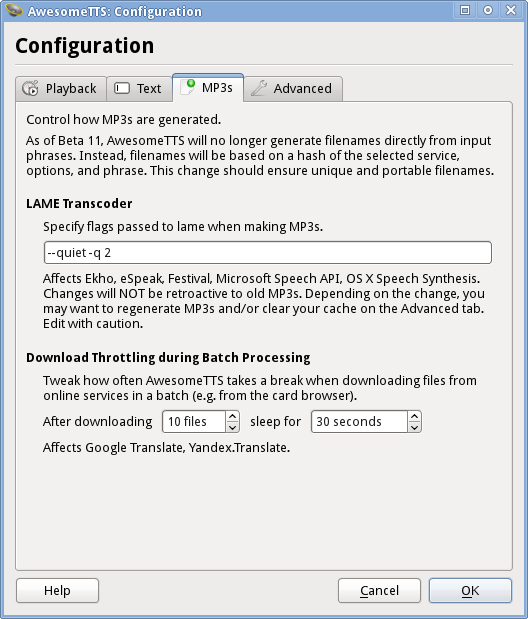
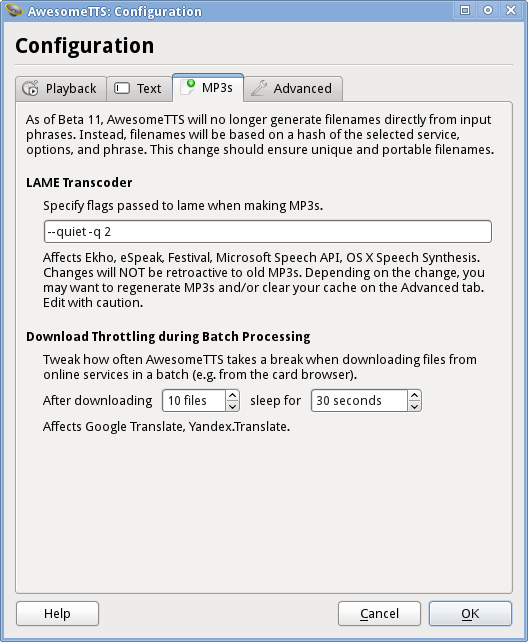
Missing text manipulation options
Really finishes off #38 by adding more options for how to handle these
arbitrary characters, including ellipsizing them and counting them (as
the user reports they are doing in their version).

Changed region(s): [[0.0, 0.0, 0.9697, 0.7367], [0.0303, 0.9208, 0.9697, 0.9822]]

diff --git a/addon/awesometts/gui/configurator.py b/addon/awesometts/gui/configurator.py
@@ -44,12 +44,14 @@ class Configurator(Dialog):
         'debug_stdout', 'delay_answers_onthefly', 'delay_answers_stored_ours',
         'delay_answers_stored_theirs', 'delay_questions_onthefly',
         'delay_questions_stored_ours', 'delay_questions_stored_theirs',
-        'lame_flags', 'strip_note_braces', 'strip_note_brackets',
-        'strip_note_parens', 'strip_note_specific', 'strip_template_braces',
-        'strip_template_brackets', 'strip_template_parens',
-        'strip_template_specific', 'sub_note_cloze', 'sub_template_cloze',
-        'throttle_sleep', 'throttle_threshold', 'tts_key_a', 'tts_key_q',
-        'updates_enabled',
+        'lame_flags', 'spec_note_strip', 'spec_note_ellipsize',
+        'spec_template_ellipsize', 'spec_note_count', 'spec_note_count_wrap',
+        'spec_template_count', 'spec_template_count_wrap',
+        'spec_template_strip', 'strip_note_braces', 'strip_note_brackets',
+        'strip_note_parens', 'strip_template_braces',
+        'strip_template_brackets', 'strip_template_parens', 'sub_note_cloze',
+        'sub_template_cloze', 'throttle_sleep', 'throttle_threshold',
+        'tts_key_a', 'tts_key_q', 'updates_enabled',
     ]
 
     _PROPERTY_WIDGETS = (
@@ -131,8 +133,6 @@ class Configurator(Dialog):
         Returns the "Playback" tab.
         """
 
-        intro = QtGui.QLabel("Control how playback is handled.")
-
         notes = QtGui.QLabel("For [sound] tags, whether or not automatic "
           "playback is enabled is controlled on a per-deck basis, and can be "
           "played on-demand by striking R or F5.")
@@ -140,8 +140,6 @@ class Configurator(Dialog):
         notes.setWordWrap(True)
 
         layout = QtGui.QVBoxLayout()
-        layout.addWidget(intro)
-        layout.addSpacing(self._SPACING)
         layout.addWidget(self._ui_tabs_playback_group(
             'automatic_questions',
             'tts_key_q',
@@ -232,17 +230,7 @@ class Configurator(Dialog):
         Returns the "Text" tab.
         """
 
-        intro = QtGui.QLabel("Configure how AwesomeTTS processes text.")
-
-        notes = QtGui.QLabel(
-            "AwesomeTTS will always automatically strip [sound] tags and "
-            "HTML from both template text and note fields."
-        )
-        notes.setWordWrap(True)
-
         layout = QtGui.QVBoxLayout()
-        layout.addWidget(intro)
-        layout.addSpacing(self._SPACING)
         layout.addWidget(self._ui_tabs_text_mode(
             '_template_',
             "Handling Template Text (e.g. On-the-Fly)",
@@ -276,8 +264,6 @@ class Configurator(Dialog):
                 ('braces', "curly-braced text, e.g. {usually plural}"),
             ],
         ))
-        layout.addSpacing(self._SPACING)
-        layout.addWidget(notes)
         layout.addStretch()
 
         tab = QtGui.QWidget()
@@ -312,25 +298,47 @@ class Configurator(Dialog):
             checkbox.setObjectName(infix.join(['strip', option_subkey]))
             layout.addWidget(checkbox)
 
-        layout.addLayout(self._ui_tabs_text_mode_specific(infix))
+        layout.addLayout(self._ui_tabs_text_mode_specific(
+            infix,
+            'strip',
+            ("Remove all", "characters from the input"),
+        ))
+        layout.addLayout(self._ui_tabs_text_mode_specific(
+            infix,
+            'count',
+            ("Count adjacent", "characters"),
+            True,
+        ))
+        layout.addLayout(self._ui_tabs_text_mode_specific(
+            infix,
+            'ellipsize',
+            ("Replace", "characters with an ellipsis"),
+        ))
 
         group = QtGui.QGroupBox(label)
         group.setLayout(layout)
 
         return group
 
-    def _ui_tabs_text_mode_specific(self, infix):
-        """Returns a horizontal layout for character stripping."""
+    def _ui_tabs_text_mode_specific(self, infix, suffix, labels, wrap=False):
+        """Returns a layout for specific character handling."""
 
-        specific = QtGui.QLineEdit()
-        specific.setObjectName(infix.join(['strip', 'specific']))
-        specific.setValidator(self._ui_tabs_text_mode_specific.ucsv)
+        line_edit = QtGui.QLineEdit()
+        line_edit.setObjectName(infix.join(['spec', suffix]))
+        line_edit.setValidator(self._ui_tabs_text_mode_specific.ucsv)
+        line_edit.setFixedWidth(50)
 
         horizontal = QtGui.QHBoxLayout()
-        horizontal.addWidget(QtGui.QLabel("Also strip out any of the "
-                                          "following characters:"))
-        horizontal.addWidget(specific)
-        horizontal.addWidget(QtGui.QLabel("e.g. #*_"))
+        horizontal.addWidget(QtGui.QLabel(labels[0]))
+        horizontal.addWidget(line_edit)
+        horizontal.addWidget(QtGui.QLabel(labels[1]))
+
+        if wrap:
+            checkbox = QtGui.QCheckBox("wrap in ellipses")
+            checkbox.setObjectName(''.join(['spec', infix, suffix, '_wrap']))
+            horizontal.addWidget(checkbox)
+
+        horizontal.addStretch()
 
         return horizontal
 
@@ -358,8 +366,6 @@ class Configurator(Dialog):
         Returns the "MP3s" tab.
         """
 
-        intro = QtGui.QLabel("Control how MP3s are generated.")
-
         notes = QtGui.QLabel(
             "As of Beta 11, AwesomeTTS will no longer generate filenames "
             "directly from input phrases. Instead, filenames will be based "
@@ -369,7 +375,6 @@ class Configurator(Dialog):
         notes.setWordWrap(True)
 
         layout = QtGui.QVBoxLayout()
-        layout.addWidget(intro)
         layout.addWidget(notes)
         layout.addSpacing(self._SPACING)
         layout.addWidget(self._ui_tabs_mp3gen_lame())
@@ -470,11 +475,7 @@ class Configurator(Dialog):
         Returns the "Advanced" tab.
         """
 
-        intro = QtGui.QLabel("Set advanced options or clear the media cache.")
-
         layout = QtGui.QVBoxLayout()
-        layout.addWidget(intro)
-        layout.addSpacing(self._SPACING)
         layout.addWidget(self._ui_tabs_advanced_update())
         layout.addWidget(self._ui_tabs_advanced_debug())
         layout.addWidget(self._ui_tabs_advanced_cache())

diff --git a/addon/awesometts/__init__.py b/addon/awesometts/__init__.py
@@ -114,16 +114,22 @@ config = Config(
         ('last_mass_behavior', 'integer', True, TO_BOOL, int),
         ('last_mass_dest', 'text', 'Back', unicode, unicode),
         ('last_mass_source', 'text', 'Front', unicode, unicode),
-        ('last_service', 'text', 'google', str, str),
         ('last_options', 'text', {}, TO_JSON_DICT, json.dumps),
+        ('last_service', 'text', 'google', str, str),
+        ('spec_note_count', 'text', '', unicode, unicode),
+        ('spec_note_count_wrap', 'integer', True, TO_BOOL, int),
+        ('spec_note_ellipsize', 'text', '', unicode, unicode),
+        ('spec_note_strip', 'text', '', unicode, unicode),
+        ('spec_template_count', 'text', '', unicode, unicode),
+        ('spec_template_count_wrap', 'integer', True, TO_BOOL, int),
+        ('spec_template_ellipsize', 'text', '', unicode, unicode),
+        ('spec_template_strip', 'text', '', unicode, unicode),
         ('strip_note_braces', 'integer', False, TO_BOOL, int),
         ('strip_note_brackets', 'integer', False, TO_BOOL, int),
         ('strip_note_parens', 'integer', False, TO_BOOL, int),
-        ('strip_note_specific', 'text', '', unicode, unicode),
         ('strip_template_braces', 'integer', False, TO_BOOL, int),
         ('strip_template_brackets', 'integer', False, TO_BOOL, int),
         ('strip_template_parens', 'integer', False, TO_BOOL, int),
-        ('strip_template_specific', 'text', '', unicode, unicode),
         ('sub_note_cloze', 'text', 'anki', str, str),
         ('sub_template_cloze', 'text', 'anki', str, str),
         ('templater_cloze', 'integer', True, TO_BOOL, int),
@@ -206,6 +212,35 @@ RE_WHITESPACE = re.compile(r'[\0\s]+')
 COLLAPSE_ELLIPSES = lambda text: RE_ELLIPSES.sub(' ... ', text)
 COLLAPSE_WHITESPACE = lambda text: RE_WHITESPACE.sub(' ', text).strip()
 
+SPEC_COUNT = lambda key, wrap_key, text: \
+    re.sub(
+        r'[' + re.escape(config[key]) + ']+',
+        lambda match: str(len(match.group(0))).join(
+            [' ... ', ' ... '] if config[wrap_key]
+            else [' ', ' ']
+        ),
+        text,
+    ) if config[key] \
+    else text
+SPEC_COUNT_NOTE = lambda text: SPEC_COUNT('spec_note_count',
+                                          'spec_note_count_wrap',
+                                          text)
+SPEC_COUNT_TEMPLATE = lambda text: SPEC_COUNT('spec_template_count',
+                                              'spec_template_count_wrap',
+                                              text)
+
+SPEC_STRIP = lambda key, text: \
+    ''.join(c for c in text if c not in config[key]) if config[key] \
+    else text
+SPEC_STRIP_NOTE = lambda text: SPEC_STRIP('spec_note_strip', text)
+SPEC_STRIP_TEMPLATE = lambda text: SPEC_STRIP('spec_template_strip', text)
+
+SPEC_ELLIP = lambda key, text: \
+    ''.join(('...' if c in config[key] else c) for c in text) if config[key] \
+    else text
+SPEC_ELLIP_NOTE = lambda text: SPEC_ELLIP('spec_note_ellipsize', text)
+SPEC_ELLIP_TEMPLATE = lambda text: SPEC_ELLIP('spec_template_ellipsize', text)
+
 STRIP_FILENAMES = lambda text: RE_FILENAMES.sub('', text)
 STRIP_HTML = anki.utils.stripHTML  # this also converts character entities
 STRIP_SOUNDS = anki.sound.stripSounds
@@ -226,14 +261,6 @@ STRIP_CONDITIONALLY_TEMPLATE = lambda text: \
     STRIP_CONDITIONALLY(RE_TEXT_IN_PARENS, 'strip_template_parens',
         text
     )))
-
-STRIP_SPEC = lambda key, text: \
-    ''.join(c for c in text if c not in config[key]) if config[key] \
-    else text
-
-STRIP_SPEC_NOTE = lambda text: STRIP_SPEC('strip_note_specific', text)
-
-STRIP_SPEC_TEMPLATE = lambda text: STRIP_SPEC('strip_template_specific', text)
 
 SUB_CLOZES_NOTE = lambda text: RE_CLOZE_NOTE.sub(
     lambda match:
@@ -384,35 +411,43 @@ addon = Bundle(
         from_note=lambda text:
             COLLAPSE_WHITESPACE(
             COLLAPSE_ELLIPSES(
-            STRIP_SPEC_NOTE(
+            SPEC_ELLIP_NOTE(
+            SPEC_COUNT_NOTE(
+            SPEC_STRIP_NOTE(
             STRIP_CONDITIONALLY_NOTE(
             STRIP_FILENAMES(
             STRIP_SOUNDS(
             STRIP_HTML(
             SUB_CLOZES_NOTE(
                 text
-            )))))))),
+            )))))))))),
 
         # for cleaning up already-processed HTML templates (e.g. on-the-fly,
         # where cloze is marked with <span class=cloze></span> tags)
         from_template=lambda text:
             COLLAPSE_WHITESPACE(
             COLLAPSE_ELLIPSES(
-            STRIP_SPEC_TEMPLATE(
+            SPEC_ELLIP_TEMPLATE(
+            SPEC_COUNT_TEMPLATE(
+            SPEC_STRIP_TEMPLATE(
             STRIP_CONDITIONALLY_TEMPLATE(
             STRIP_FILENAMES(
             STRIP_SOUNDS(
             STRIP_HTML(
             SUB_CLOZES_TEMPLATE(
                 text
-            )))))))),
+            )))))))))),
 
         # for cleaning up text from unknown sources (e.g. system clipboard)
         from_unknown=lambda text:
             COLLAPSE_WHITESPACE(
             COLLAPSE_ELLIPSES(
-            STRIP_SPEC_TEMPLATE(
-            STRIP_SPEC_NOTE(
+            SPEC_ELLIP_TEMPLATE(
+            SPEC_ELLIP_NOTE(
+            SPEC_COUNT_TEMPLATE(
+            SPEC_COUNT_NOTE(
+            SPEC_STRIP_TEMPLATE(
+            SPEC_STRIP_NOTE(
             STRIP_CONDITIONALLY_TEMPLATE(
             STRIP_CONDITIONALLY_NOTE(
             STRIP_FILENAMES(
@@ -421,7 +456,7 @@ addon = Bundle(
             SUB_CLOZES_TEMPLATE(
             SUB_CLOZES_NOTE(
                 text
-            ))))))))))),
+            ))))))))))))))),
 
         # for direct user input (e.g. previews, EditorGenerator insertion)
         from_user=lambda text:
